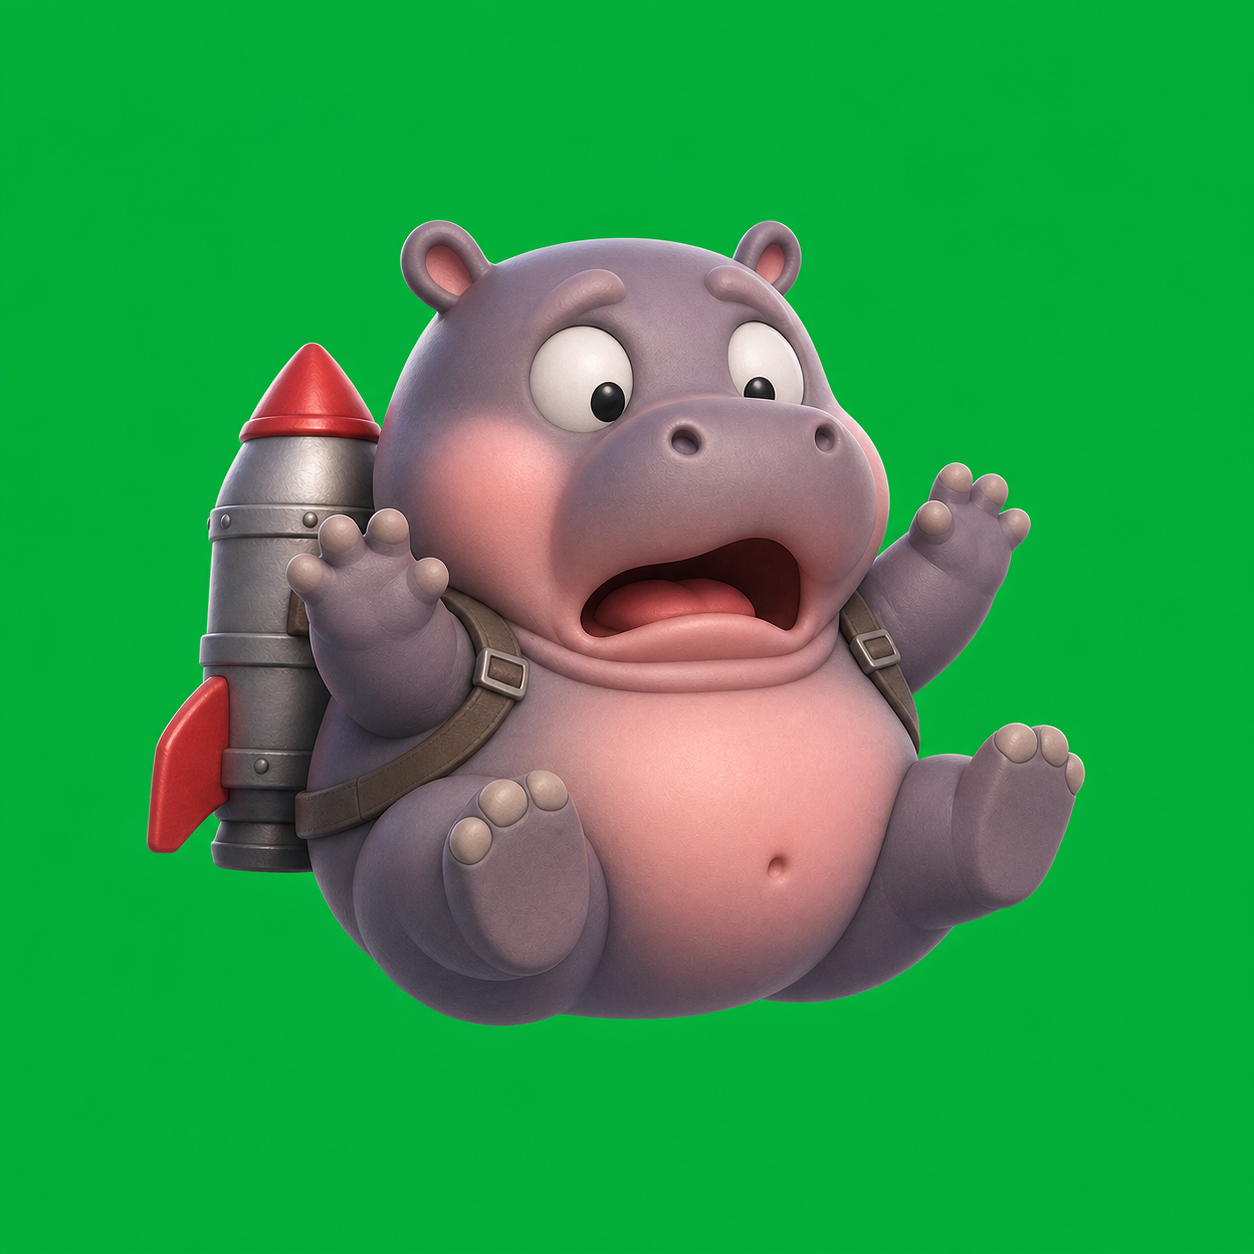
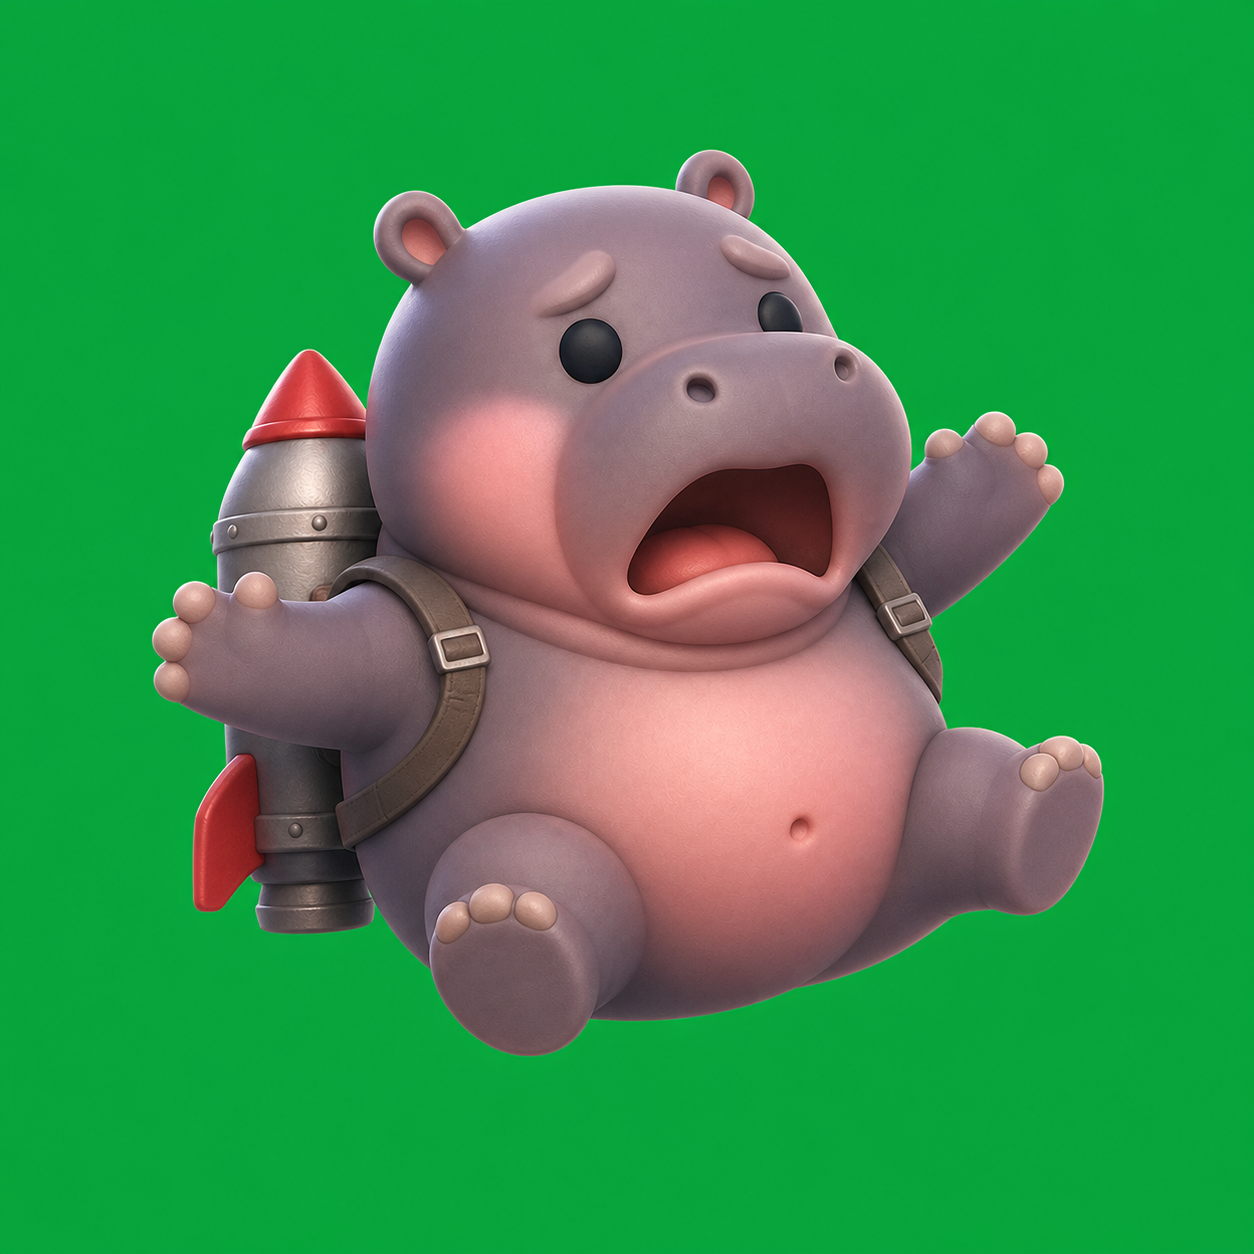
fix(art): boost/fall を再生成（白目→黒目ドット / 細長→チョンキー維持）
レビュー反映: fallの白目(人間っぽい)を黒目ドットに、boostの伸び(きもい)を丸い
チョンキー体型維持に修正。art-bibleルーブリックに該当2項目を追加。

Changed region(s): [[0.0933, 0.0933, 0.9019, 0.8397], [0.5909, 0.6531, 0.6531, 0.7153]]

diff --git a/art-bible.md b/art-bible.md
@@ -34,3 +34,5 @@
 5. ロケットは小さくレトロ（リアルすぎ・大きすぎ否）
 6. 頭身：アンカー比 ±10%以内
 7. 文字焼き込み無し
+8. **目は黒目ドットのみ。白目（強膜）を足さない**＝白目が入ると一気に"人間っぽくてきもい"（fall初回で実証）。驚き/パニックは**口・眉・手足**で出す。
+9. **丸いチョンキー体型を維持。縦に伸ばさない/細くしない**＝すらっとさせると不気味（boost初回で実証）。ブースト等の伸び表現は"少し上に傾く"程度に留め、ぽっちゃりは保つ。
